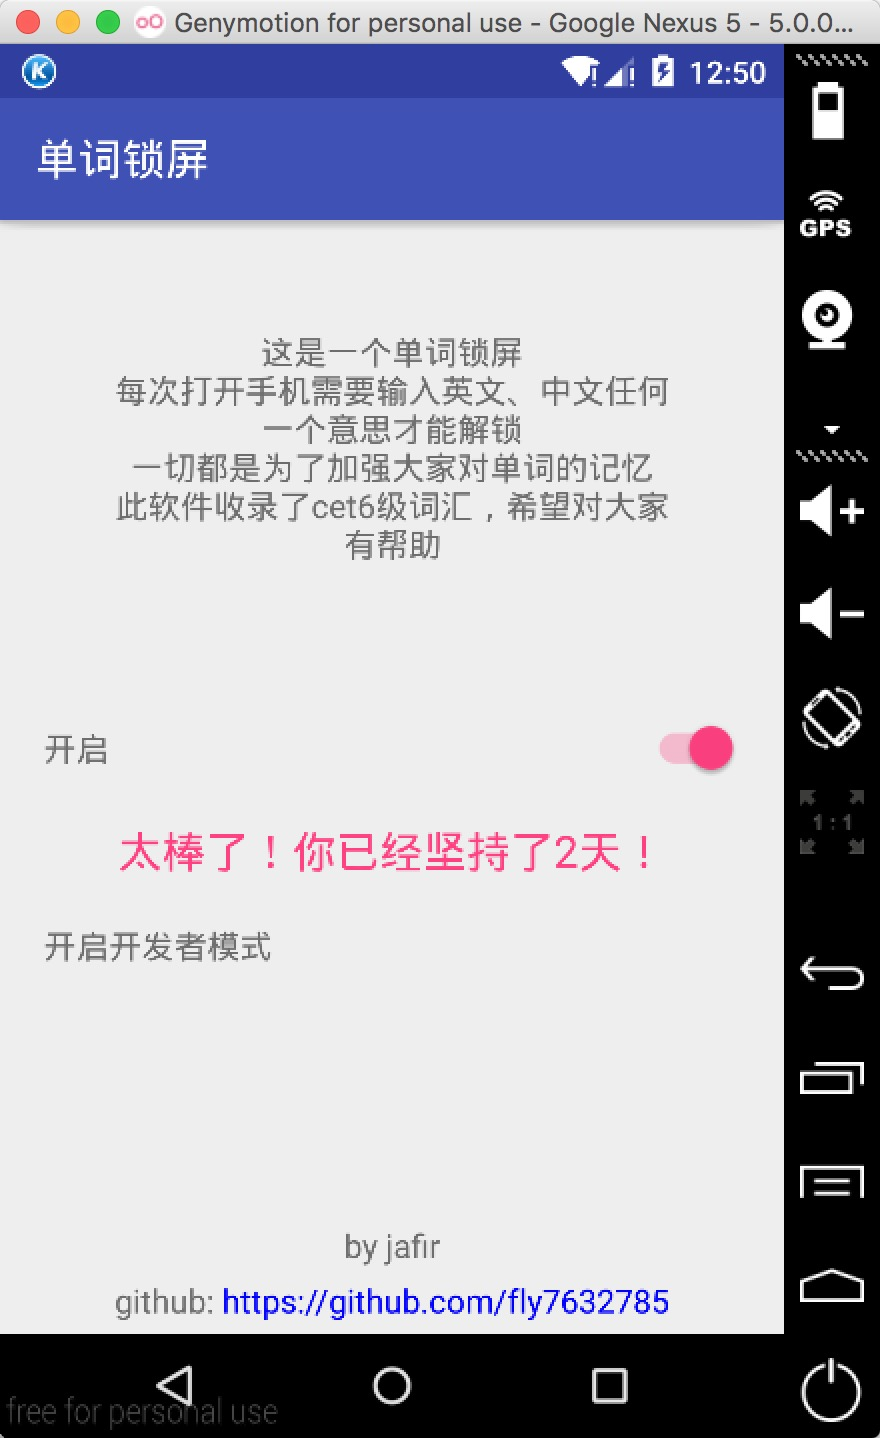
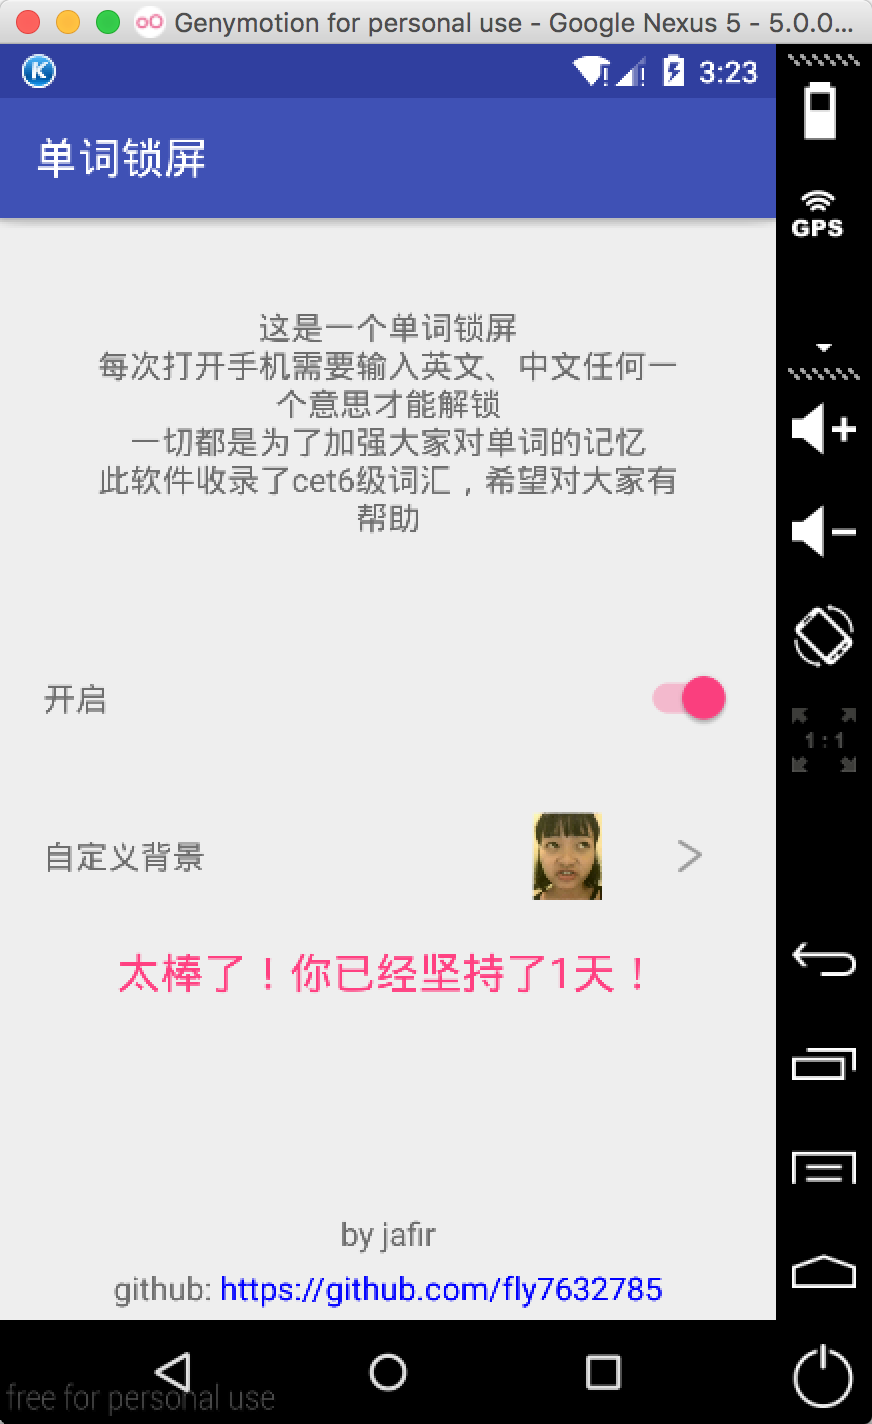
1、去掉了中文意思匹配（意义不大，数据库格式不统一） 2、优化了单词出现的策略 3、增加了不再出现的功能 4、增加了自定义背景

diff --git a/app/src/main/java/com/jafir/lockscreen/IntroduceActivity.java b/app/src/main/java/com/jafir/lockscreen/IntroduceActivity.java
@@ -2,7 +2,10 @@ package com.jafir.lockscreen;
 
 import android.Manifest;
 import android.annotation.TargetApi;
+import android.content.DialogInterface;
 import android.content.Intent;
+import android.graphics.Bitmap;
+import android.graphics.BitmapFactory;
 import android.graphics.Color;
 import android.net.Uri;
 import android.os.Build;
@@ -10,10 +13,12 @@ import android.os.Bundle;
 import android.os.SystemClock;
 import android.provider.Settings;
 import android.support.annotation.Nullable;
+import android.support.v7.app.AlertDialog;
 import android.support.v7.app.AppCompatActivity;
 import android.util.Log;
 import android.view.View;
 import android.widget.CompoundButton;
+import android.widget.ImageView;
 import android.widget.Switch;
 import android.widget.TextView;
 import android.widget.Toast;
@@ -27,6 +32,10 @@ import com.jafir.lockscreen.util.ToastUtil;
 import com.jafir.lockscreen.util.WindowUtils;
 
 import java.util.ArrayList;
+import java.util.List;
+
+import cn.finalteam.galleryfinal.GalleryFinal;
+import cn.finalteam.galleryfinal.model.PhotoInfo;
 
 /**
  * Created by jafir on 16/11/16.
@@ -41,6 +50,9 @@ public class IntroduceActivity extends AppCompatActivity {
     private TextView mToGithub;
     private TextView mDays;
 
+    private ImageView mToImg, mImg;
+
+    private View imgLL;
     private View openLl;
     private View kaifazhe;
     TextView developer;
@@ -48,6 +60,7 @@ public class IntroduceActivity extends AppCompatActivity {
     private long MIN_CLICK_INTERVAL = 1000;
     private long MIN_CLICK = 6;
     private int mSecretNumber;
+    private int REQUEST_CODE_GALLERY = 1;
 
     @Override
     protected void onCreate(@Nullable Bundle savedInstanceState) {
@@ -68,6 +81,25 @@ public class IntroduceActivity extends AppCompatActivity {
         } else {
             mDays.setText("今天是第1天哦，加油，一定要坚持");
         }
+
+        mImg = (ImageView) findViewById(R.id.img);
+        String imgPath = PreferenceUtil.readString(IntroduceActivity.this, "common", "imgPaht", "null");
+        if (!imgPath.equals("null")) {
+            Bitmap bm = BitmapFactory.decodeFile(imgPath);
+            if (bm != null && mImg != null) {
+                mImg.setImageBitmap(bm);
+            }
+        } else {
+            mImg.setImageBitmap(null);
+        }
+        mToImg = (ImageView) findViewById(R.id.goto_img);
+        mToImg.setOnClickListener(new View.OnClickListener() {
+            @Override
+            public void onClick(View v) {
+                choose();
+            }
+        });
+
 
         /**
          * 这里先隐藏了，弄个一个小机关
@@ -135,7 +167,47 @@ public class IntroduceActivity extends AppCompatActivity {
         });
 
 
+    }
 
+    private void choose() {
+        new AlertDialog.Builder(this)
+                .setTitle("选择背景图片")
+                .setPositiveButton("自定义选择", new DialogInterface.OnClickListener() {
+                    @Override
+                    public void onClick(DialogInterface dialog, int which) {
+                        chooseImg();
+                    }
+                })
+                .setNegativeButton("使用默认的", new DialogInterface.OnClickListener() {
+                    @Override
+                    public void onClick(DialogInterface dialog, int which) {
+                        mImg.setImageBitmap(null);
+                        PreferenceUtil.write(IntroduceActivity.this, "common", "imgPaht", "null");
+                    }
+                }).show();
+
+    }
+
+    private void chooseImg() {
+        GalleryFinal.openGallerySingle(REQUEST_CODE_GALLERY, new GalleryFinal.OnHanlderResultCallback() {
+            @Override
+            public void onHanlderSuccess(int reqeustCode, List<PhotoInfo> resultList) {
+                String path = null;
+                for (PhotoInfo info : resultList
+                        ) {
+                    path = info.getPhotoPath();
+                    PreferenceUtil.write(IntroduceActivity.this, "common", "imgPaht", path);
+                    Bitmap bm = BitmapFactory.decodeFile(path);
+                    if (bm != null && mImg != null) {
+                        mImg.setImageBitmap(bm);
+                    }
+                }
+            }
+
+            @Override
+            public void onHanlderFailure(int requestCode, String errorMsg) {
+            }
+        });
     }
 
     /**

diff --git a/app/src/main/java/com/jafir/lockscreen/MainActivity.java b/app/src/main/java/com/jafir/lockscreen/MainActivity.java
@@ -6,6 +6,7 @@ import android.content.Intent;
 import android.content.IntentFilter;
 import android.database.sqlite.SQLiteDatabase;
 import android.graphics.PixelFormat;
+import android.graphics.drawable.Drawable;
 import android.os.Bundle;
 import android.os.Handler;
 import android.os.Message;
@@ -51,12 +52,11 @@ import static com.jafir.lockscreen.util.StringUtil.filter;
 /**
  * create by jafir 2016/11/14
  * 这是锁屏界面的activity
- *
+ * <p>
  * 原理就是 在activity中控制 window的锁屏显示
- *
+ * <p>
  * 代码比较简单，个人觉得，之所以冗长，主要是因为有一些动画，
  * 还有就是 算法策略 对数据库的操作 这些比较繁杂
- *
  */
 public class MainActivity extends AppCompatActivity {
 
@@ -92,7 +92,7 @@ public class MainActivity extends AppCompatActivity {
             R.mipmap.night9, R.mipmap.night10, R.mipmap.night11
     };
     //每天默认记多少单词 ，就在数据库抽选 多少单词，然后在里面轮着记
-    private static final int COUNT = 5;
+    private static final int COUNT = 20;
     private int mCount = COUNT;
     private Word mWord;
     private List<Word> mWords;
@@ -255,7 +255,15 @@ public class MainActivity extends AppCompatActivity {
 
     private void initWindow() {
         viewgroup = (ViewGroup) View.inflate(this, R.layout.lock_screen, null);
-        viewgroup.setBackgroundResource(imgs[new Random().nextInt(5)]);
+        String imgPath = PreferenceUtil.readString(MainActivity.this, "common", "imgPaht", "null");
+        if (!imgPath.equals("null")) {
+            Drawable dw = Drawable.createFromPath(imgPath);
+            if (dw != null) {
+                viewgroup.setBackground(dw);
+            }
+        } else {
+            viewgroup.setBackgroundResource(imgs[new Random().nextInt(imgs.length)]);
+        }
         wm = (WindowManager) getApplicationContext().getSystemService(WINDOW_SERVICE);
         WindowManager.LayoutParams wmParams = new WindowManager.LayoutParams();
         /**
@@ -490,7 +498,7 @@ public class MainActivity extends AppCompatActivity {
                     mWords.remove(mWord);
                 }
                 mCount--;
-                Log.d("debug","mCount ::" +mCount);
+                Log.d("debug", "mCount ::" + mCount);
                 PreferenceUtil.write(MainActivity.this, "common", "count", mCount);
                 //如果==0说明全部记完了 从本地数据库加载啊
                 //设置 index 初始化为0
@@ -521,6 +529,7 @@ public class MainActivity extends AppCompatActivity {
         mEngEditl.setOnTouchListener(new View.OnTouchListener() {
             @Override
             public boolean onTouch(View v, MotionEvent event) {
+                mEngEditl.requestFocus();
                 hideWord(true);
                 return false;
             }

diff --git a/app/src/main/java/com/jafir/lockscreen/app/AppContext.java b/app/src/main/java/com/jafir/lockscreen/app/AppContext.java
@@ -2,6 +2,17 @@ package com.jafir.lockscreen.app;
 
 import android.app.Application;
 import android.content.Context;
+import android.graphics.Color;
+
+import com.jafir.lockscreen.R;
+import com.jafir.lockscreen.util.GlideImageLoader;
+
+import cn.finalteam.galleryfinal.BuildConfig;
+import cn.finalteam.galleryfinal.CoreConfig;
+import cn.finalteam.galleryfinal.FunctionConfig;
+import cn.finalteam.galleryfinal.GalleryFinal;
+import cn.finalteam.galleryfinal.ImageLoader;
+import cn.finalteam.galleryfinal.ThemeConfig;
 
 /**
  * Created by jafir on 16/8/11.
@@ -22,6 +33,37 @@ public class AppContext extends Application {
 
         sceenWidth = this.getResources().getDisplayMetrics().widthPixels;
         sceenHeight = this.getResources().getDisplayMetrics().heightPixels;
+
+
+        ThemeConfig theme = new ThemeConfig.Builder()
+                //两种方法都可以
+//                .setTitleBarBgColor(getResources().getColor(R.color.colorPrimary))
+                .setTitleBarBgColor(Color.rgb(0, 151, 255))
+                .setCropControlColor(Color.rgb(255, 64, 129))
+                .setFabNornalColor(Color.rgb(0, 151, 255))
+                .setFabPressedColor(Color.rgb(0, 15, 213))
+                .setCheckSelectedColor(getResources().getColor(R.color.colorPrimary))
+                .build();
+
+
+
+        //配置功能
+        FunctionConfig functionConfig = new FunctionConfig.Builder()
+                .setEnableCamera(true)
+                .setEnableEdit(true)
+                .setEnableCrop(true)
+                .setEnableRotate(true)
+                .setEnablePreview(true)
+                .setForceCrop(true)
+                .build();
+
+        //配置imageloader
+        ImageLoader imageloader = new GlideImageLoader();
+        CoreConfig coreConfig = new CoreConfig.Builder(getApplicationContext(), imageloader, theme)
+                .setDebug(BuildConfig.DEBUG)
+                .setFunctionConfig(functionConfig)
+                .build();
+        GalleryFinal.init(coreConfig);
 
     }
 

diff --git a/app/src/main/java/com/jafir/lockscreen/util/GlideImageLoader.java b/app/src/main/java/com/jafir/lockscreen/util/GlideImageLoader.java
@@ -1,0 +1,51 @@
+package com.jafir.lockscreen.util;
+
+import android.app.Activity;
+import android.graphics.drawable.Drawable;
+
+import com.bumptech.glide.Glide;
+import com.bumptech.glide.load.engine.DiskCacheStrategy;
+import com.bumptech.glide.load.resource.drawable.GlideDrawable;
+import com.bumptech.glide.request.Request;
+import com.bumptech.glide.request.target.ImageViewTarget;
+import com.jafir.lockscreen.R;
+
+import cn.finalteam.galleryfinal.widget.GFImageView;
+
+/**
+ * Created by jafir on 16/5/27.
+ */
+public class GlideImageLoader implements cn.finalteam.galleryfinal.ImageLoader {
+
+    @Override
+    public void displayImage(Activity activity, String path, final GFImageView imageView, Drawable defaultDrawable, int width, int height) {
+        Glide.with(activity)
+                .load("file://" + path)
+                .placeholder(defaultDrawable)
+                .error(defaultDrawable)
+                .override(width, height)
+                .diskCacheStrategy(DiskCacheStrategy.NONE) //不缓存到SD卡
+                .skipMemoryCache(true)
+                //.centerCrop()
+                .into(new ImageViewTarget<GlideDrawable>(imageView) {
+                    @Override
+                    protected void setResource(GlideDrawable resource) {
+                        imageView.setImageDrawable(resource);
+                    }
+
+                    @Override
+                    public void setRequest(Request request) {
+                        imageView.setTag(R.id.adapter_item_tag_key,request);
+                    }
+
+                    @Override
+                    public Request getRequest() {
+                        return (Request) imageView.getTag(R.id.adapter_item_tag_key);
+                    }
+                });
+    }
+
+    @Override
+    public void clearMemoryCache() {
+    }
+}
